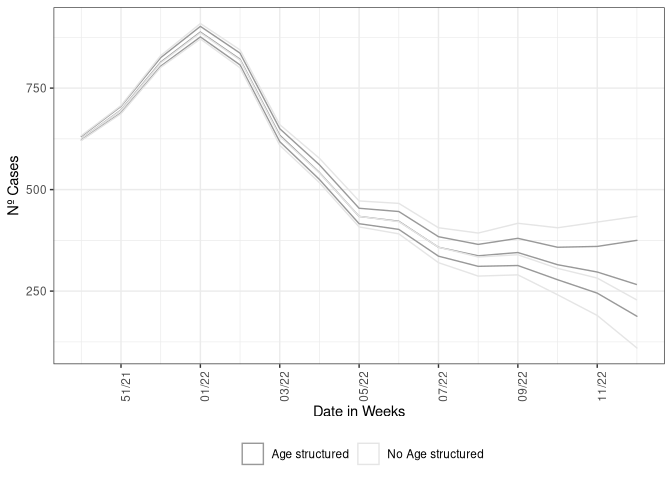
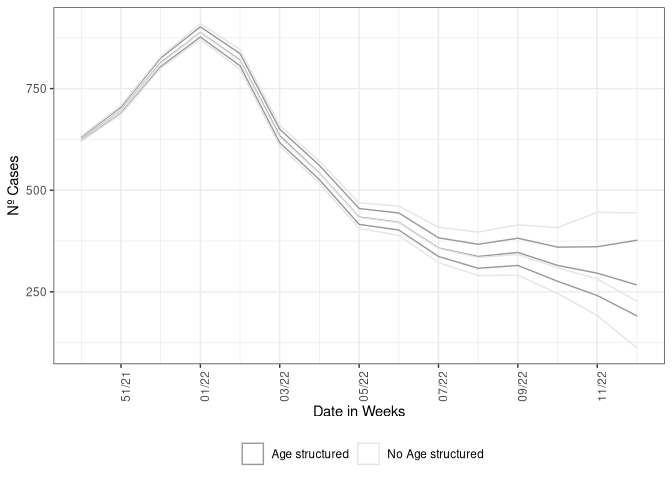
README recompiled

diff --git a/README.md b/README.md
@@ -98,12 +98,12 @@ head(nowcasting_bh_no_age$total)
     ## # A tibble: 6 × 7
     ##    Time dt_event   Median    LI    LS   LIb   LSb
     ##   <int> <date>      <dbl> <dbl> <dbl> <dbl> <dbl>
-    ## 1    17 2021-12-13    625   621  633    623   627
-    ## 2    18 2021-12-20    695   687  707    691   698
-    ## 3    19 2021-12-27    812   801  829    808   817
-    ## 4    20 2022-01-03    886   870  908    880   893
-    ## 5    21 2022-01-10    817   800  843.   811   826
-    ## 6    22 2022-01-17    631   609  660.   623   639
+    ## 1    17 2021-12-13    625   621   632   623   627
+    ## 2    18 2021-12-20    694   688   708   691   698
+    ## 3    19 2021-12-27    811   801   828   807   816
+    ## 4    20 2022-01-03    886   871   908   880   893
+    ## 5    21 2022-01-10    818   800   847   811   827
+    ## 6    22 2022-01-17    631   610   660   623   640
 
 This calling will return only the nowcasting estimate and its Confidence
 Interval (CI) for two different Credible interval, `LIb` and `LSb` are
@@ -168,7 +168,6 @@ the age-class chosen by the user to break the data. The model has the
 form now:
 
 $$Y\_{t,d,a} \\sim  NegBinom(\\lambda\_{t,d,a}, \\phi), \\quad t=1,2,\\ldots,T, \\quad d=1,2,\\ldots,D, $a=1,2,\\ldots,A$$
-$
 log (*λ*<sub>*t*, *d*, *a*</sub>) = *α*<sub>*a*</sub> + *β*<sub>*t*, *a*</sub> + *γ*<sub>*d*, *a*</sub>.
 where each age class, *a*, has an intercept *α*<sub>*a*</sub> following
 a Gaussian distribution with a very large variance, the time-age random
